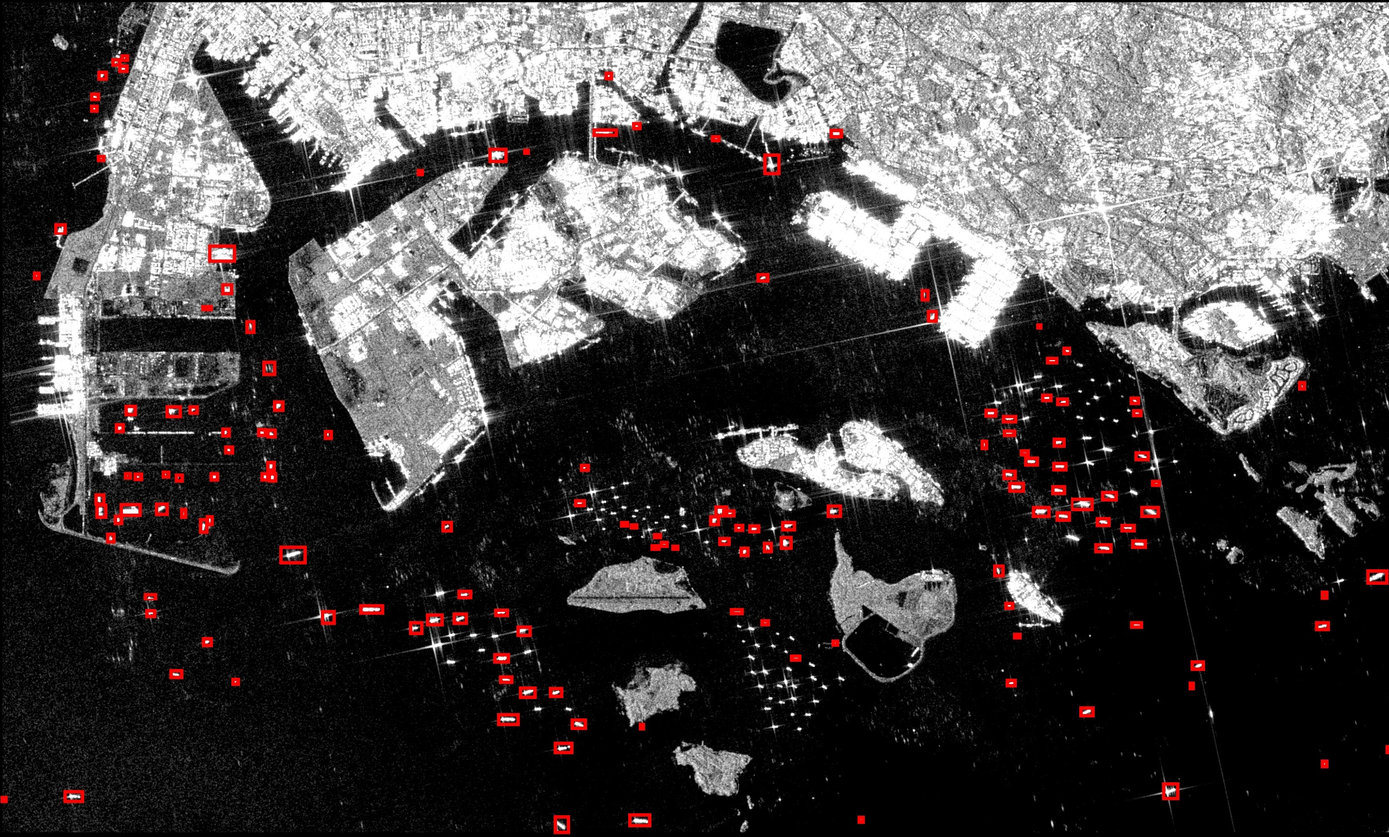
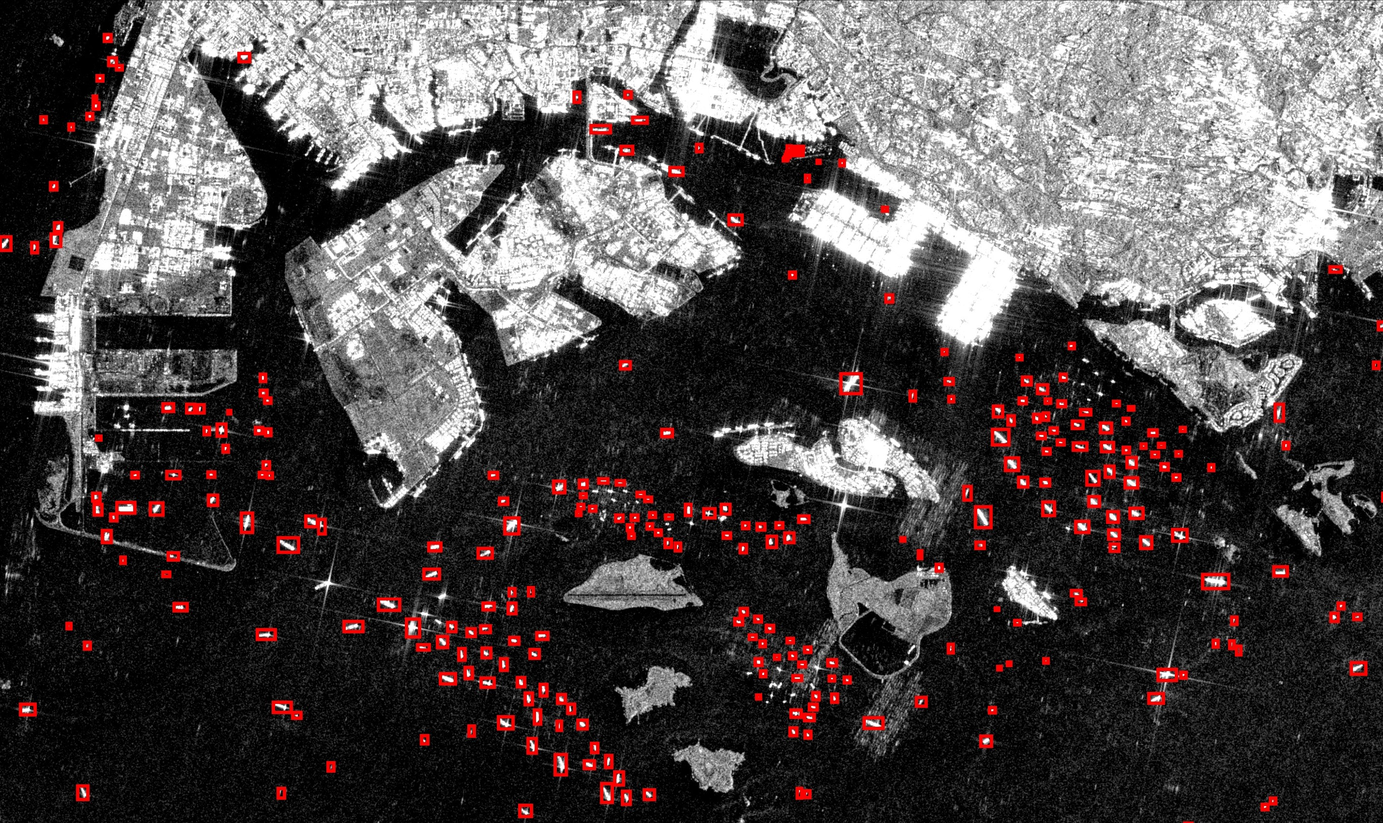
updated singapore application imgs and methods

diff --git a/docs/index.html b/docs/index.html
@@ -86,7 +86,7 @@
 										<ul class="places">
 											<li><button id='button1' class = "active-button" onclick="showContent(1)" data-image="images/feb2020_portla.jpg" data-caption="Ship Count: 52; Date: February 04, 2020">Port of Los Angeles</button></li>
 											<li><button id='button2' onclick="showContent(2)" data-image="images/before_suez.jpg" data-caption="Ship Count: 44; Date: March 24, 2021">Suez Canal</button></li>
-											<li><button  id='button3' onclick="showContent(3)" data-image="images/sg_start.jpg" data-caption="Ship Count: 211; Date: December 2, 2019">Singapore</button></li>
+											<li><button  id='button3' onclick="showContent(3)" data-image="images/sg_start.jpg" data-caption="Ship Count: 249; Date: January 7, 2020">Singapore</button></li>
 										</ul>
 									</div>
 								</section>
@@ -111,7 +111,7 @@
 										<ul class="places">
 											<li><button id='button1' onclick="showContent(1)" data-image="images/feb2020_portla.jpg" data-caption="Ship Count: 52; Date: February 04, 2020">Port of Los Angeles</button></li>
 											<li><button id='button2' class = "active-button" onclick="showContent(2)" data-image="images/before_suez.jpg" data-caption="Ship Count: 44; Date: March 20, 2021">Suez Canal</button></li>
-											<li><button id='button3' onclick="showContent(3)" data-image="images/sg_start.jpg" data-caption="Ship Count: 211; Date: December 2, 2019">Singapore</button></li>
+											<li><button id='button3' onclick="showContent(3)" data-image="images/sg_start.jpg" data-caption="Ship Count: 249; Date: January 7, 2020">Singapore</button></li>
 										</ul>
 									</div>
 								</section>
@@ -127,12 +127,12 @@
 								<section>
 									<ul>
 										<!--sub-buttons to switch between time frames within a place-->
-										<li style="display:inline"><button class='sub_button' id="sg_before_covid" data-image="images/sg_start.jpg" data-caption="Ship Count: 211; Date: December 2, 2019">Before COVID Lockdown</button></li>
-										<li style="display:inline"><button class='sub_button' id="sg_during_covid" data-image="images/sg_end.jpg" data-caption="Ship Count: 148; Date: April 24, 2020">During COVID Lockdown</button></li>
+										<li style="display:inline"><button class='sub_button' id="sg_before_covid" data-image="images/sg_start.jpg" data-caption="Ship Count: 249; Date: January 7, 2020">Before COVID Lockdown</button></li>
+										<li style="display:inline"><button class='sub_button' id="sg_during_covid" data-image="images/sg_end.jpg" data-caption="Ship Count: 288; Date: April 13, 2020">During COVID Lockdown</button></li>
 										
 										</ul>
 									<p><img src="images/sg_start.jpg" alt="Image 1" class='sg_pic'></p>
-									<div style="width:image width px; font-size:80%; text-align:center;" id="img_caption2">Ship Count: 211; Date: December 2, 2019</div>
+									<div style="width:image width px; font-size:80%; text-align:center;" id="img_caption2">Ship Count: 249; Date: January 7, 2020</div>
 								</section>
 							
 								<section>
@@ -140,7 +140,7 @@
 										<ul class="places">
 											<li><button id='button1' onclick="showContent(1)" data-image="images/feb2020_portla.jpg" data-caption="Ship Count: 52; Date: February 04, 2020">Port of Los Angeles</button></li>
 											<li><button id='button2' onclick="showContent(2)" data-image="images/before_suez.jpg" data-caption="Ship Count: 44; Date: March 20, 2021">Suez Canal</button></li>
-											<li><button  id='button3' class = "active-button" onclick="showContent(3)" data-image="images/sg_start.jpg" data-caption="Ship Count: 211; Date: December 2, 2019">Singapore</button></li>
+											<li><button  id='button3' class = "active-button" onclick="showContent(3)" data-image="images/sg_start.jpg" data-caption="Ship Count: 249; Date: January 7, 2020">Singapore</button></li>
 										</ul>
 									</div>
 								</section>
@@ -300,6 +300,18 @@
 									with ships present in them to train the models. This cut down our total dataset size from 9,000 images to 1,900 images. We tried to fix this problem by introducing 
 									image augmentations such as rotations and adding noise to try and increase the size of our dataset, but due to time constraints we were unable to implement these.
 									However, to solve this issue we instead trained our models for more iterations. 
+									<br><br>
+								</p>
+								<img src="images/mar2020_portla.jpg" alt="Image 1" width="50%" height="50%" style="display: block; margin-left: auto; margin-right: auto; width: 50%;">
+								<div style="width:image width px; text-align:center;" id="img_caption2">Example of image with detected ships.</div>
+
+								<br><br>
+								<h2>Final Pipeline</h2>
+								<img src="images/Workflow.jpg" alt="Image 1" width="50%" height="50%" style="display: block; margin-left: auto; margin-right: auto; width: 50%;">
+								<div style="width:image width px; text-align:center;" id="img_caption2">Workflow Diagram</div>
+								<p>
+									Once we have built our classifier and object detection models, we were able to package it all up into a tool that can be used by others.
+									As we can see from the image above, the first step of the process is the acquire images from Google Earth Engine. Using our scripts  
 								</p>
 				</section>
 
